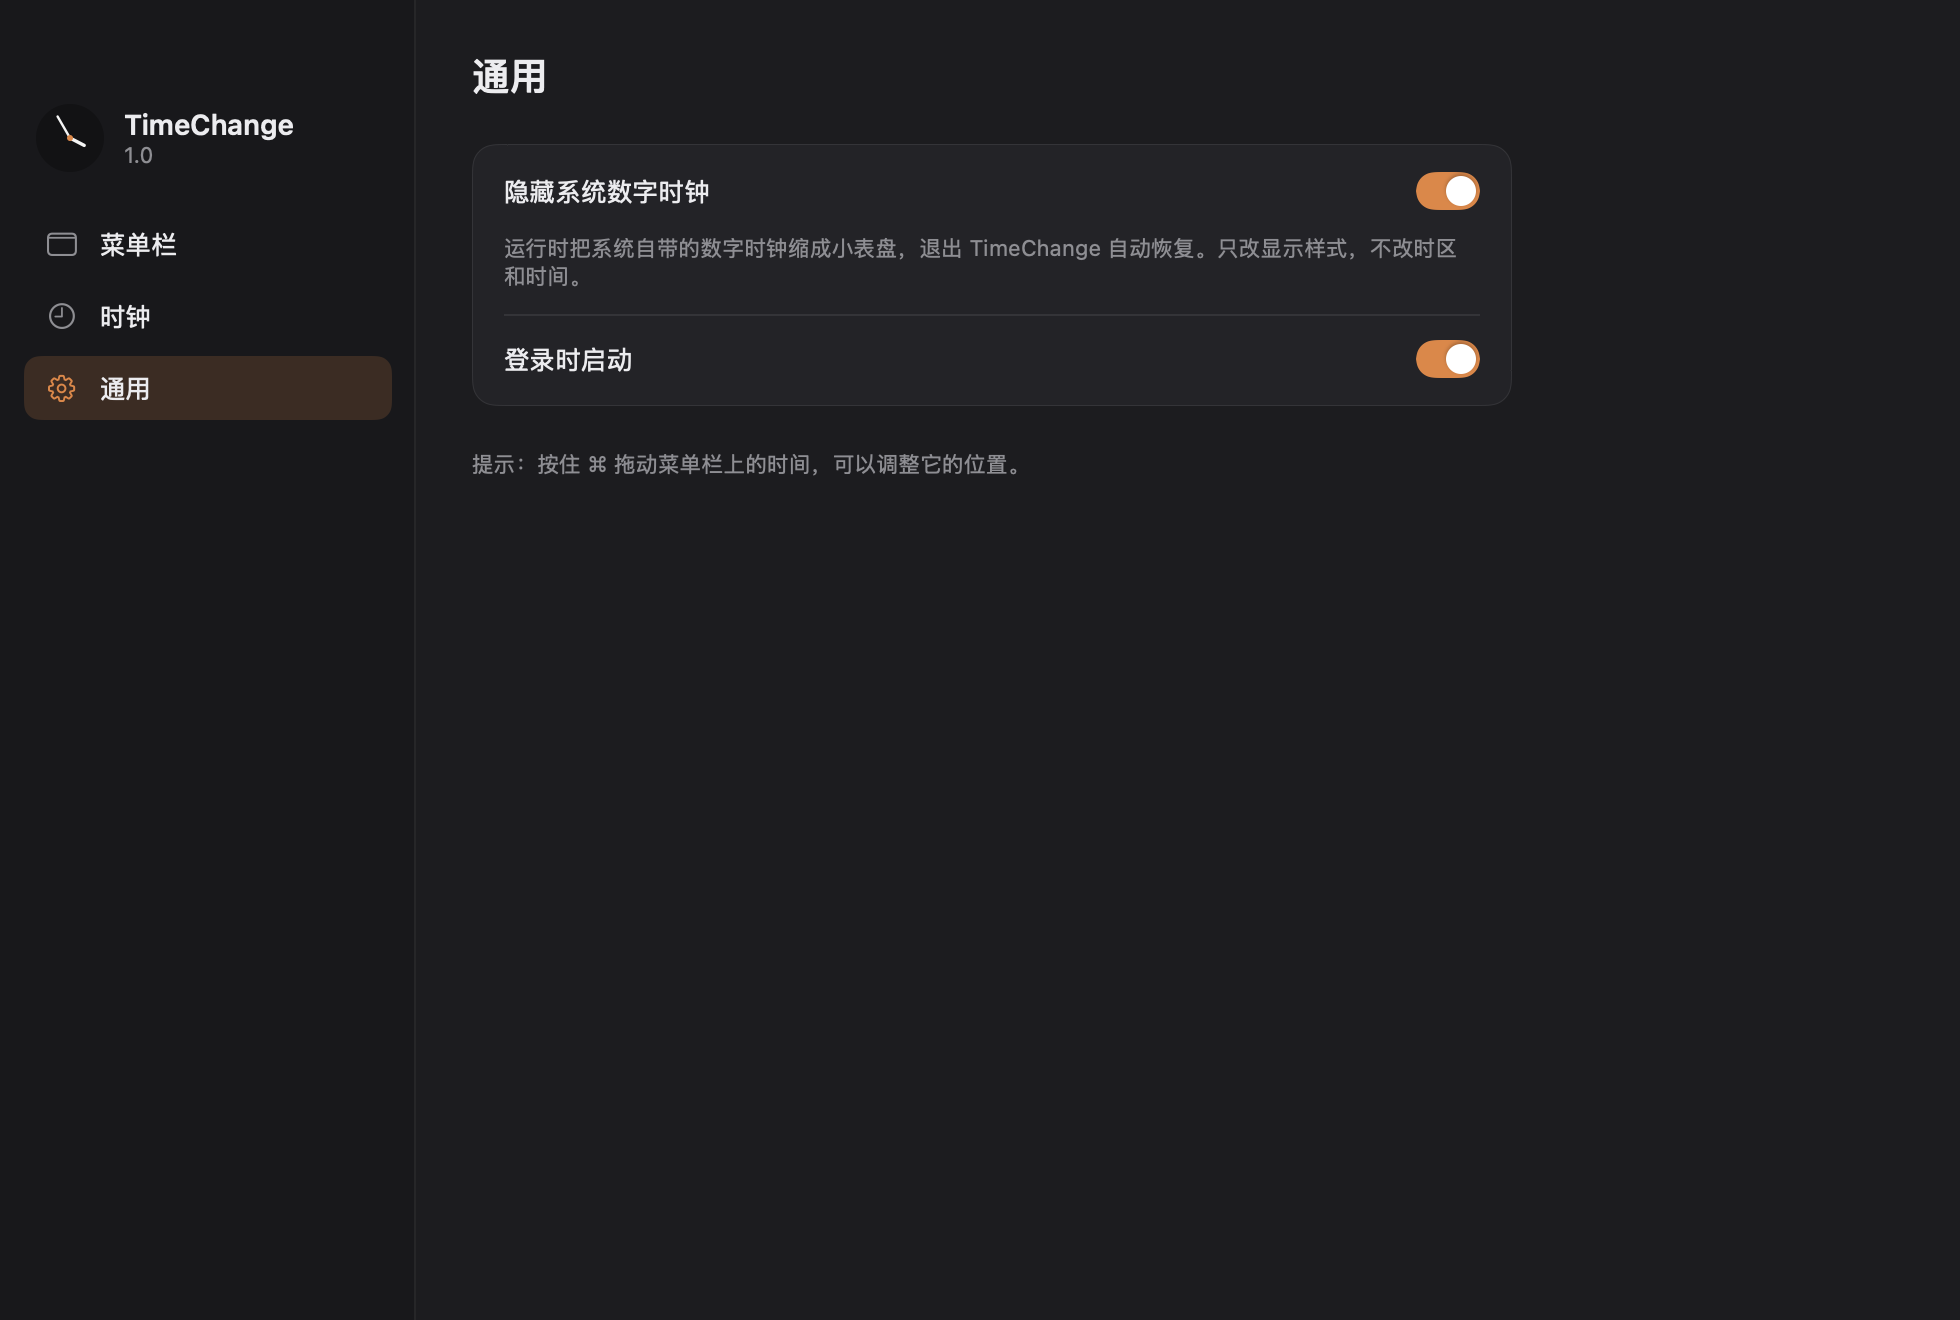
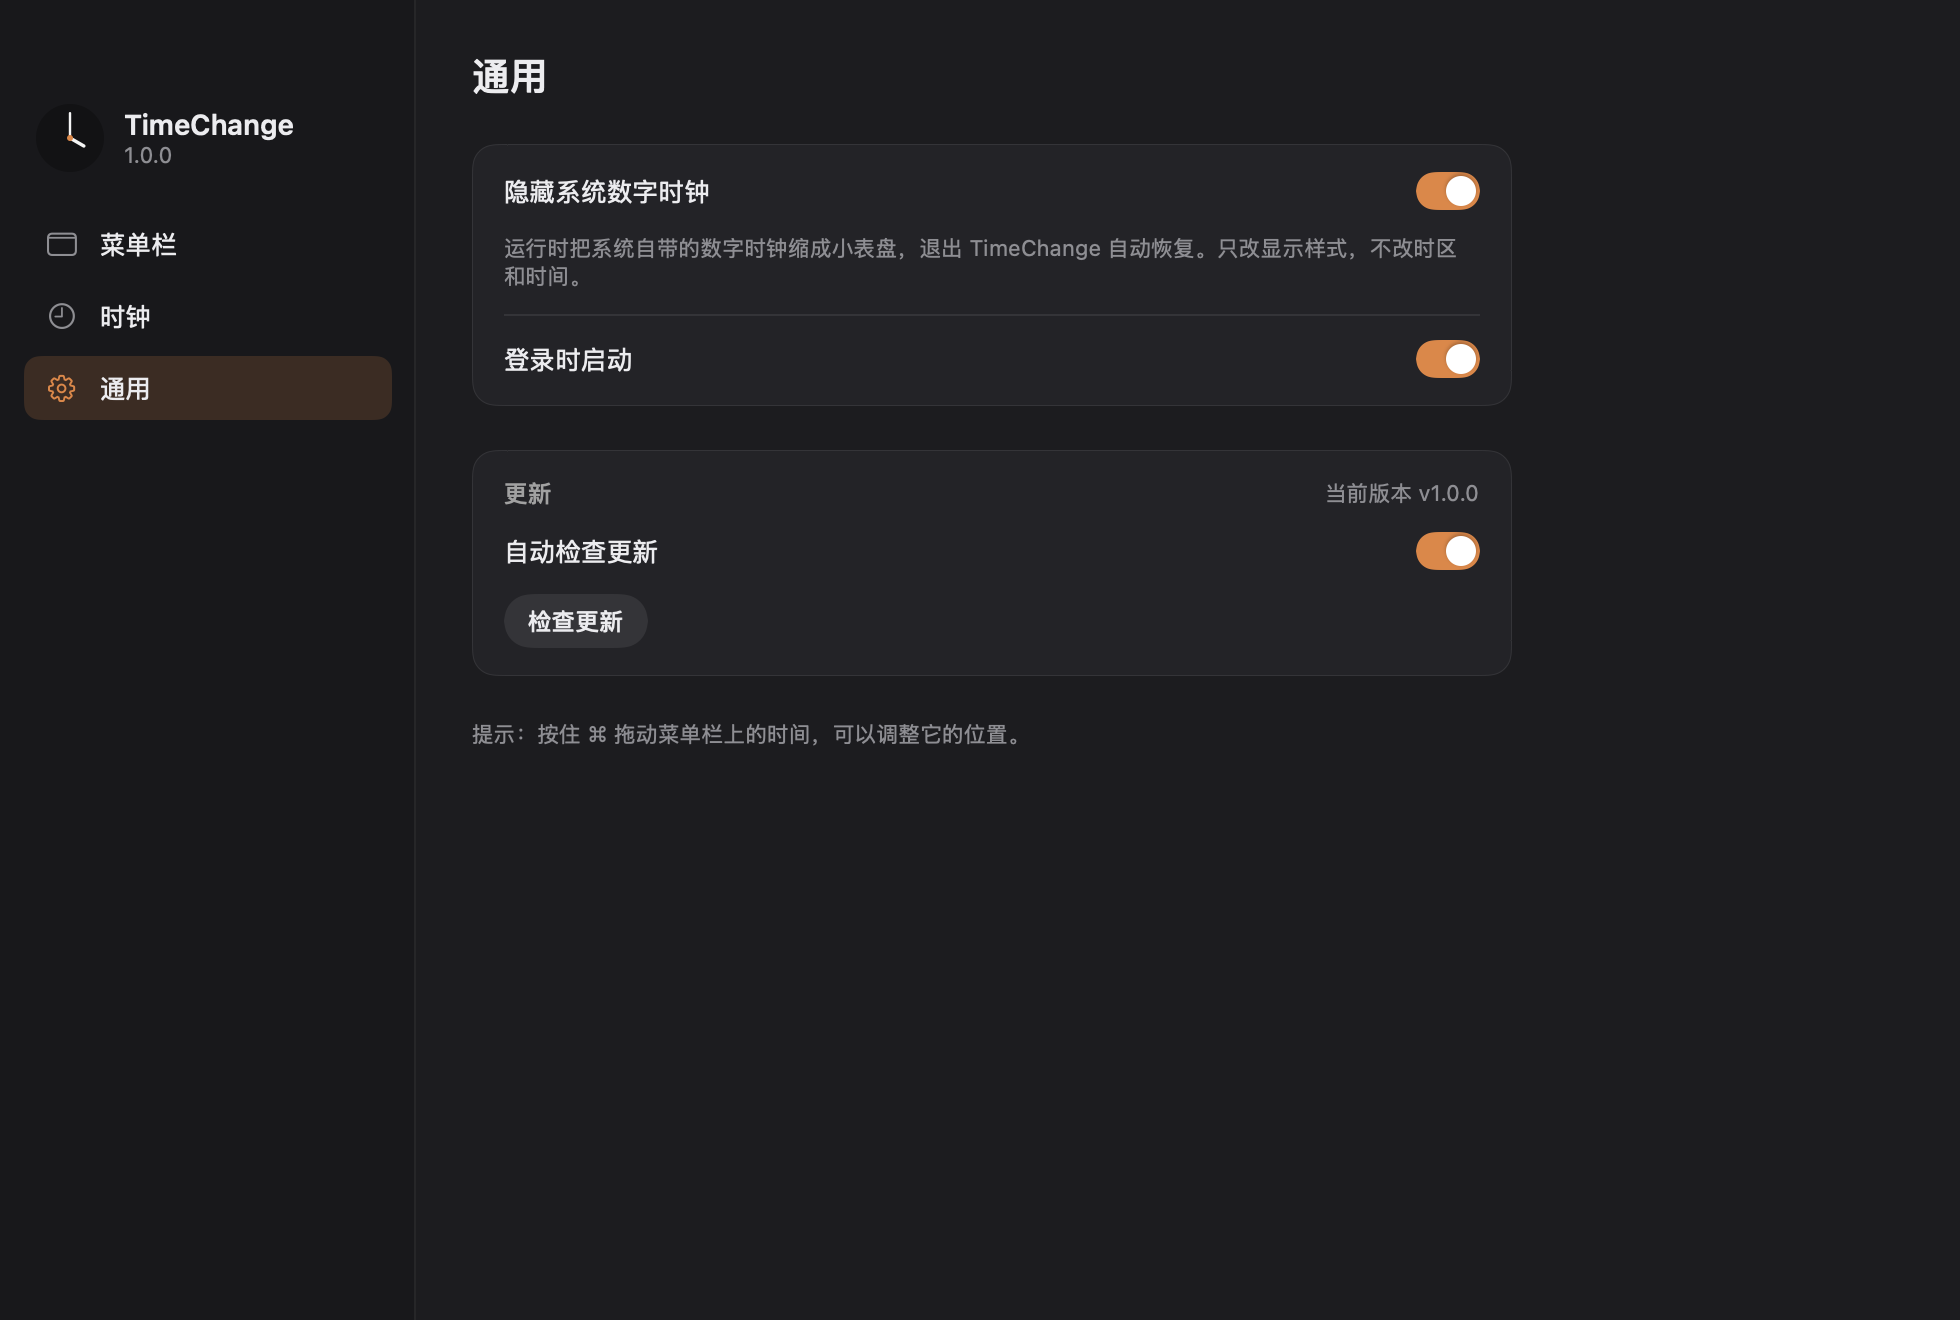
Add DMG release script and in-app updater
release.sh builds a universal (arm64 + x86_64) app and DMG. The app checks
GitHub Releases daily and can download, replace and relaunch itself.

diff --git a/Sources/main.swift b/Sources/main.swift
@@ -280,6 +280,7 @@ func clockSub(_ c: ClockEntry, _ now: Date) -> String {
 
 struct PanelView: View {
     @ObservedObject var store: Store
+    @ObservedObject var updater = Updater.shared
     var onSettings: () -> Void
     var onAdd: () -> Void
     var onQuit: () -> Void
@@ -303,6 +304,9 @@ struct PanelView: View {
 
                 Rectangle().fill(Color.white.opacity(0.1)).frame(height: 1).padding(.horizontal, 4)
                 VStack(spacing: 0) {
+                    if let r = updater.available {
+                        PanelRow(title: updater.busy ? "正在更新…" : "更新到 v\(r.version)", accent: true) { updater.install() }
+                    }
                     PanelRow(title: "添加时区…", action: onAdd)
                     PanelRow(title: "设置…", action: onSettings)
                     PanelRow(title: "退出 TimeChange", action: onQuit)
@@ -357,11 +361,13 @@ struct ClockCard: View {
 
 struct PanelRow: View {
     let title: String
+    var accent = false
     let action: () -> Void
     @State private var hover = false
     var body: some View {
         Button(action: action) {
-            Text(title).font(.system(size: 13))
+            Text(title).font(.system(size: 13, weight: accent ? .semibold : .regular))
+                .foregroundStyle(accent ? UI.accent : UI.text)
                 .frame(maxWidth: .infinity, alignment: .leading)
                 .padding(.horizontal, 8).padding(.vertical, 4)
                 .background(RoundedRectangle(cornerRadius: 6).fill(hover ? Color.white.opacity(0.1) : .clear))
@@ -401,6 +407,7 @@ final class AppDelegate: NSObject, NSApplicationDelegate {
 
         refresh()
         scheduleTimer()
+        Updater.shared.startAutoCheck()
         if store.s.hidesSystemClock { SystemClock.shrink() }
     }
 
@@ -562,7 +569,7 @@ struct Sidebar: View {
                     Dial(tz: .current, now: tl.date, size: 34, ticks: false)
                     VStack(alignment: .leading, spacing: 0) {
                         Text("TimeChange").font(.system(size: 14, weight: .semibold))
-                        Text("1.0").font(.system(size: 11)).foregroundStyle(UI.sub)
+                        Text(Bundle.main.object(forInfoDictionaryKey: "CFBundleShortVersionString") as? String ?? "1.0").font(.system(size: 11)).foregroundStyle(UI.sub)
                     }
                 }
                 .padding(.horizontal, 6).padding(.bottom, 16)
@@ -876,6 +883,162 @@ struct ClocksPage: View {
     }
 }
 
+// MARK: - 自动更新（从 GitHub Releases 检查新版本，一键下载 DMG 并替换自身）
+
+final class Updater: ObservableObject {
+    static let shared = Updater()
+    static let repo = "mcporda/TimeChange"
+
+    struct Release { let version: String; let dmg: URL?; let page: URL }
+
+    @Published var available: Release?
+    @Published var status = ""
+    @Published var busy = false
+    private var timer: Timer?
+
+    static var current: String {
+        Bundle.main.object(forInfoDictionaryKey: "CFBundleShortVersionString") as? String ?? "0"
+    }
+
+    static func newer(_ a: String, than b: String) -> Bool {
+        let x = a.split(separator: ".").map { Int($0) ?? 0 }, y = b.split(separator: ".").map { Int($0) ?? 0 }
+        for i in 0..<max(x.count, y.count) {
+            let l = i < x.count ? x[i] : 0, r = i < y.count ? y[i] : 0
+            if l != r { return l > r }
+        }
+        return false
+    }
+
+    var autoCheck: Bool {
+        get { UserDefaults.standard.object(forKey: "autoCheckUpdates") as? Bool ?? true }
+        set { UserDefaults.standard.set(newValue, forKey: "autoCheckUpdates"); objectWillChange.send() }
+    }
+
+    func startAutoCheck() {
+        DispatchQueue.main.asyncAfter(deadline: .now() + 8) { [weak self] in
+            guard let self, self.autoCheck else { return }
+            self.check(silent: true)
+        }
+        timer = Timer.scheduledTimer(withTimeInterval: 24 * 3600, repeats: true) { [weak self] _ in
+            guard let self, self.autoCheck else { return }
+            self.check(silent: true)
+        }
+    }
+
+    func check(silent: Bool = false) {
+        guard !busy else { return }
+        if !silent { status = "正在检查…" }
+        var req = URLRequest(url: URL(string: "https://api.github.com/repos/\(Self.repo)/releases/latest")!)
+        req.setValue("TimeChange-Updater", forHTTPHeaderField: "User-Agent")
+        req.setValue("application/vnd.github+json", forHTTPHeaderField: "Accept")
+        URLSession.shared.dataTask(with: req) { data, _, err in
+            var rel: Release?
+            if let data, let j = try? JSONSerialization.jsonObject(with: data) as? [String: Any],
+               let tag = j["tag_name"] as? String, let page = (j["html_url"] as? String).flatMap(URL.init(string:)) {
+                let v = tag.hasPrefix("v") ? String(tag.dropFirst()) : tag
+                let assets = j["assets"] as? [[String: Any]] ?? []
+                let dmg = assets.first { ($0["name"] as? String)?.hasSuffix(".dmg") == true }?["browser_download_url"] as? String
+                rel = Release(version: v, dmg: dmg.flatMap(URL.init(string:)), page: page)
+            }
+            DispatchQueue.main.async {
+                if let r = rel, Self.newer(r.version, than: Self.current) {
+                    self.available = r
+                    self.status = "发现新版本 v\(r.version)"
+                } else if rel != nil {
+                    self.available = nil
+                    if !silent { self.status = "已是最新版本（v\(Self.current)）" }
+                } else if !silent {
+                    self.status = "检查失败：\(err?.localizedDescription ?? "无法连接 GitHub")"
+                }
+            }
+        }.resume()
+    }
+
+    /// 下载 DMG → 挂载 → 复制新 App → 退出后替换自身并重新打开
+    func install() {
+        guard let r = available, let dmgURL = r.dmg, !busy else { if let r = available { NSWorkspace.shared.open(r.page) }; return }
+        busy = true
+        status = "正在下载 v\(r.version)…"
+        URLSession.shared.downloadTask(with: dmgURL) { tmp, _, err in
+            guard let tmp else { return self.fail(err?.localizedDescription ?? "下载失败") }
+            let work = FileManager.default.temporaryDirectory.appendingPathComponent("TimeChange-update-\(UUID().uuidString)")
+            try? FileManager.default.createDirectory(at: work, withIntermediateDirectories: true)
+            let dmg = work.appendingPathComponent("update.dmg")
+            do { try FileManager.default.moveItem(at: tmp, to: dmg) } catch { return self.fail("保存失败") }
+            DispatchQueue.main.async { self.status = "正在安装…" }
+            let newApp = work.appendingPathComponent("TimeChange.app").path
+            let prep = """
+            set -e
+            M=$(hdiutil attach -nobrowse -readonly '\(dmg.path)' | tail -1 | awk -F'\\t' '{print $NF}')
+            ditto "$M/TimeChange.app" '\(newApp)'
+            hdiutil detach -quiet "$M" || true
+            xattr -dr com.apple.quarantine '\(newApp)' 2>/dev/null || true
+            """
+            guard Self.sh(prep) == 0, FileManager.default.fileExists(atPath: newApp) else { return self.fail("安装包解压失败") }
+            let target = Bundle.main.bundlePath
+            guard FileManager.default.isWritableFile(atPath: (target as NSString).deletingLastPathComponent) else {
+                DispatchQueue.main.async { NSWorkspace.shared.open(r.page) }
+                return self.fail("没有写入权限，已打开下载页面，请手动替换")
+            }
+            let pid = ProcessInfo.processInfo.processIdentifier
+            let swap = """
+            while kill -0 \(pid) 2>/dev/null; do sleep 0.2; done
+            rm -rf '\(target)' && mv '\(newApp)' '\(target)' && open '\(target)'
+            rm -rf '\(work.path)'
+            """
+            let p = Process()
+            p.executableURL = URL(fileURLWithPath: "/bin/sh")
+            p.arguments = ["-c", swap]
+            try? p.run()
+            DispatchQueue.main.async { NSApp.terminate(nil) }
+        }.resume()
+    }
+
+    private func fail(_ msg: String) {
+        DispatchQueue.main.async { self.busy = false; self.status = msg }
+    }
+
+    @discardableResult static func sh(_ cmd: String) -> Int32 {
+        let p = Process()
+        p.executableURL = URL(fileURLWithPath: "/bin/sh")
+        p.arguments = ["-c", cmd]
+        try? p.run(); p.waitUntilExit()
+        return p.terminationStatus
+    }
+}
+
+struct UpdateCard: View {
+    @ObservedObject var up = Updater.shared
+    var body: some View {
+        CardBox {
+            HStack {
+                SectionTitle(t: "更新")
+                Spacer()
+                Text("当前版本 v\(Updater.current)").font(.system(size: 11)).foregroundStyle(UI.sub)
+            }
+            Toggle("自动检查更新", isOn: Binding(get: { up.autoCheck }, set: { up.autoCheck = $0 })).toggleStyle(OrangeSwitch())
+            HStack(spacing: 10) {
+                if let r = up.available {
+                    Button { up.install() } label: {
+                        Text(up.busy ? "更新中…" : "更新到 v\(r.version)").font(.system(size: 12, weight: .medium))
+                            .padding(.horizontal, 12).padding(.vertical, 6)
+                            .background(Capsule().fill(UI.accent)).foregroundStyle(.white)
+                    }.buttonStyle(.plain).disabled(up.busy)
+                    Button("更新说明") { NSWorkspace.shared.open(r.page) }.buttonStyle(.plain)
+                        .font(.system(size: 12)).foregroundStyle(UI.sub)
+                } else {
+                    Button { up.check() } label: {
+                        Text("检查更新").font(.system(size: 12, weight: .medium))
+                            .padding(.horizontal, 12).padding(.vertical, 6)
+                            .background(Capsule().fill(Color.white.opacity(0.08)))
+                    }.buttonStyle(.plain)
+                }
+                Text(up.status).font(.system(size: 11)).foregroundStyle(UI.sub)
+            }
+        }
+    }
+}
+
 struct GeneralPage: View {
     @EnvironmentObject var store: Store
     var body: some View {
@@ -889,6 +1052,7 @@ struct GeneralPage: View {
                 LoginToggle()
             }
             .frame(maxWidth: 520)
+            UpdateCard().frame(maxWidth: 520)
             Text("提示：按住 ⌘ 拖动菜单栏上的时间，可以调整它的位置。")
                 .font(.system(size: 11)).foregroundStyle(UI.sub)
         }

diff --git a/README.md b/README.md
@@ -26,11 +26,21 @@
 - **默认常用时区**：本机、上海、东京、伦敦，可任意添加、改名、排序、删除（支持中英文搜索城市）。
 - **格式开关**：日期、星期、秒、24 小时制。
 - **隐藏系统数字时钟**：运行时把系统时钟切换为「模拟」小图标，退出时自动恢复（只改显示样式）。
+- **自动更新**：从 GitHub Releases 检查新版本，一键更新。
 - **登录时启动**、只允许运行一个实例、不占用 Dock。
 
 ## 安装
 
-需要 macOS 14 及以上、Xcode 命令行工具（Swift 5.9+）。
+**下载安装（推荐）**：到 [Releases](https://github.com/mcporda/TimeChange/releases/latest) 下载 `TimeChange-x.y.z.dmg`，打开后把 TimeChange 拖进「应用程序」。支持 Apple 芯片和 Intel，需要 macOS 14 及以上。
+
+> 首次打开提示「无法验证开发者」：本项目暂未经过 Apple 公证。请在「应用程序」里**右键 TimeChange → 打开**，或执行：
+> ```bash
+> xattr -dr com.apple.quarantine /Applications/TimeChange.app
+> ```
+
+**自动更新**：TimeChange 每天会检查一次 GitHub 上的新版本。有更新时，下拉面板和「设置 → 通用」里会出现「更新到 vX.Y.Z」，点一下即可自动下载、替换并重启。
+
+**从源码构建**（需要 Xcode 命令行工具，Swift 5.9+）：
 
 ```bash
 git clone https://github.com/mcporda/TimeChange.git
@@ -38,8 +48,6 @@ cd TimeChange
 ./build.sh
 open ~/Applications/TimeChange.app
 ```
-
-`build.sh` 会编译并以 ad-hoc 签名生成 `TimeChange.app`，安装到 `~/Applications`。
 
 > 提示：按住 ⌘ 拖动菜单栏上的时间，可以调整它的位置。
 
@@ -59,6 +67,8 @@ open ~/Applications/TimeChange.app
 ```bash
 ./build.sh                                                     # 构建并安装
 ~/Applications/TimeChange.app/Contents/MacOS/TimeChange --snapshot docs   # 重新生成 README 截图
+./release.sh 1.1.0                                             # 打包通用 DMG（build/TimeChange-1.1.0.dmg）
+gh release create v1.1.0 build/TimeChange-1.1.0.dmg            # 发布后，用户端会自动收到更新
 ```
 
 欢迎提 Issue 和 PR。
@@ -82,4 +92,6 @@ TimeChange puts a native-looking clock in the menu bar that can show any time zo
 - Optionally shrinks the system clock to its analog icon while running, restored on quit
 - Launch at login, single instance, no Dock icon
 
-Build: `./build.sh` (macOS 14+, Swift 5.9+), then `open ~/Applications/TimeChange.app`.
+- Built-in updater: checks GitHub Releases daily, one-click update
+
+Install: download the DMG from [Releases](https://github.com/mcporda/TimeChange/releases/latest) and drag TimeChange to Applications (Apple silicon + Intel, macOS 14+). The app is not notarized yet — right-click → Open on first launch. Or build from source: `./build.sh`.
